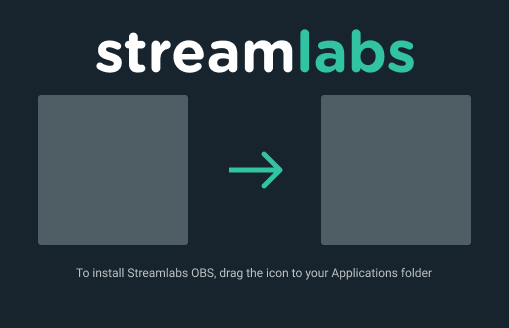
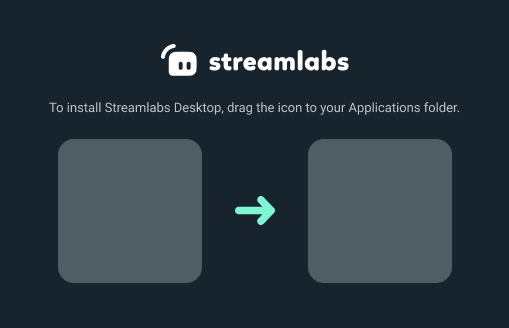
mac release channel change part 1

Changed region(s): [[0.0589, 0.2744, 0.943, 0.8841], [0.1768, 0.0915, 0.8251, 0.2439], [0.442, 0.4573, 0.5599, 0.7012]]

diff --git a/updater/mac/Updater.js b/updater/mac/Updater.js
@@ -2,7 +2,7 @@
 // be required by the main electron process.
 
 const { autoUpdater } = require('electron-updater');
-const { app, BrowserWindow, ipcMain } = require('electron');
+const { app, BrowserWindow, ipcMain, dialog } = require('electron');
 
 class Updater {
   // startApp is a callback that will start the app.  Ideally this
@@ -12,14 +12,18 @@ class Updater {
   // the auto updater.  Pre-initializing the mainWindow is now a
   // good option either, since then closing the auto updater will
   // orphan the main process in the background.
-  constructor(startApp) {
+  constructor(startApp, channel) {
     this.startApp = startApp;
+    this.channel = channel;
   }
 
   run() {
     this.updateState = {};
 
     this.bindListeners();
+
+    // Redirect to new channel for Streamlabs Desktop
+    autoUpdater.channel = `desktop-${this.channel}`;
 
     autoUpdater.checkForUpdates().catch(() => {
       // This usually means there is no internet connection.
@@ -39,6 +43,14 @@ class Updater {
       this.updateState.version = info.version;
       this.updateState.percent = 0;
       this.pushState();
+
+      dialog.showMessageBoxSync(null, {
+        title: 'Streamlabs Desktop',
+        message: 'Streamlabs OBS is now Streamlabs Desktop',
+        detail:
+          'After the update, Streamlabs OBS will be renamed to Streamlabs Desktop. If you had Streamlabs OBS pinned to your dock, your old dock icon will stop working and you will need to pin it again. The app may need to be manually launched after the update.',
+        type: 'warning',
+      });
     });
 
     autoUpdater.on('update-not-available', () => {
@@ -85,6 +97,7 @@ class Updater {
       resizable: false,
       show: false,
       webPreferences: { nodeIntegration: true, enableRemoteModule: true, contextIsolation: false },
+      backgroundColor: '#17242d',
     });
 
     browserWindow.on('ready-to-show', () => {

diff --git a/app/services/patch-notes/index.ts b/app/services/patch-notes/index.ts
@@ -12,7 +12,6 @@ import { WindowsService } from 'services/windows';
 interface IPatchNotesState {
   lastVersionSeen: string;
   updateTimestamp: string;
-  macMessageSeen: boolean;
 }
 
 export interface IPatchNotes {
@@ -31,7 +30,6 @@ export class PatchNotesService extends PersistentStatefulService<IPatchNotesStat
   static defaultState: IPatchNotesState = {
     lastVersionSeen: null,
     updateTimestamp: null,
-    macMessageSeen: false,
   };
 
   init() {
@@ -89,22 +87,6 @@ export class PatchNotesService extends PersistentStatefulService<IPatchNotesStat
     }
   }
 
-  showMacNameChangeMessageIfRequired(onboarded: boolean) {
-    if (getOS() !== OS.Mac) return;
-    if (this.state.macMessageSeen) return;
-
-    this.SET_MAC_MESSAGE_SEEN();
-
-    if (!onboarded) {
-      electron.remote.dialog.showMessageBox(this.windowsService.windows.main, {
-        title: 'Streamlabs Desktop',
-        message: 'Streamlabs OBS is now Streamlabs Desktop',
-        detail:
-          'Streamlabs OBS is being renamed to Streamlabs Desktop. If you had Streamlabs OBS pinned to your dock, your old dock icon will stop working and you will need to pin it again.',
-      });
-    }
-  }
-
   get notes() {
     return notes;
   }
@@ -113,10 +95,5 @@ export class PatchNotesService extends PersistentStatefulService<IPatchNotesStat
   private SET_LAST_VERSION_SEEN(version: string, timestamp: string) {
     this.state.lastVersionSeen = version;
     this.state.updateTimestamp = timestamp;
-  }
-
-  @mutation()
-  private SET_MAC_MESSAGE_SEEN() {
-    this.state.macMessageSeen = true;
   }
 }

diff --git a/electron-builder/afterPack.js b/electron-builder/afterPack.js
@@ -54,7 +54,7 @@ exports.default = async function(context) {
 
   console.log('Updating dependency paths');
   cp.execSync(
-    `install_name_tool -change ./node_modules/node-libuiohook/libuiohook.1.dylib @executable_path/../Resources/app.asar.unpacked/node_modules/node-libuiohook/libuiohook.1.dylib ${context.appOutDir}/Streamlabs\\ Desktop.app/Contents/Resources/app.asar.unpacked/node_modules/node-libuiohook/node_libuiohook.node`,
+    `install_name_tool -change ./node_modules/node-libuiohook/libuiohook.1.dylib @executable_path/../Resources/app.asar.unpacked/node_modules/node-libuiohook/libuiohook.1.dylib \"${context.appOutDir}/${context.packager.appInfo.productName}.app/Contents/Resources/app.asar.unpacked/node_modules/node-libuiohook/node_libuiohook.node\"`,
   );
 
   cp.execSync(

diff --git a/electron-builder/base.config.js b/electron-builder/base.config.js
@@ -98,17 +98,17 @@ const base = {
   },
   dmg: {
     background: 'media/images/dmg-bg.png',
-    iconSize: 100,
+    iconSize: 85,
     contents: [
       {
-        x: 112,
-        y: 165,
+        x: 130,
+        y: 208,
       },
       {
         type: 'link',
         path: '/Applications',
-        x: 396,
-        y: 165,
+        x: 380,
+        y: 208,
       },
     ],
   },

diff --git a/app/services/app/app.ts b/app/services/app/app.ts
@@ -154,7 +154,6 @@ export class AppService extends StatefulService<IAppState> {
     this.tcpServerService.listen();
 
     this.patchNotesService.showPatchNotesIfRequired(this.state.onboarded);
-    this.patchNotesService.showMacNameChangeMessageIfRequired(this.state.onboarded);
     this.announcementsService.updateBanner();
 
     this.crashReporterService.endStartup();

diff --git a/main.js b/main.js
@@ -588,7 +588,7 @@ app.on('ready', () => {
 
       bootstrap(updateInfo, startApp, app.exit);
     } else {
-      new Updater(startApp).run();
+      new Updater(startApp, releaseChannel).run();
     }
   } else {
     startApp();

diff --git a/electron-builder/mac.config.js b/electron-builder/mac.config.js
@@ -1,0 +1,7 @@
+// This file is temporary and will be removed shortly
+
+const base = require('./base.config');
+
+base.productName = 'Streamlabs OBS';
+
+module.exports = base;
